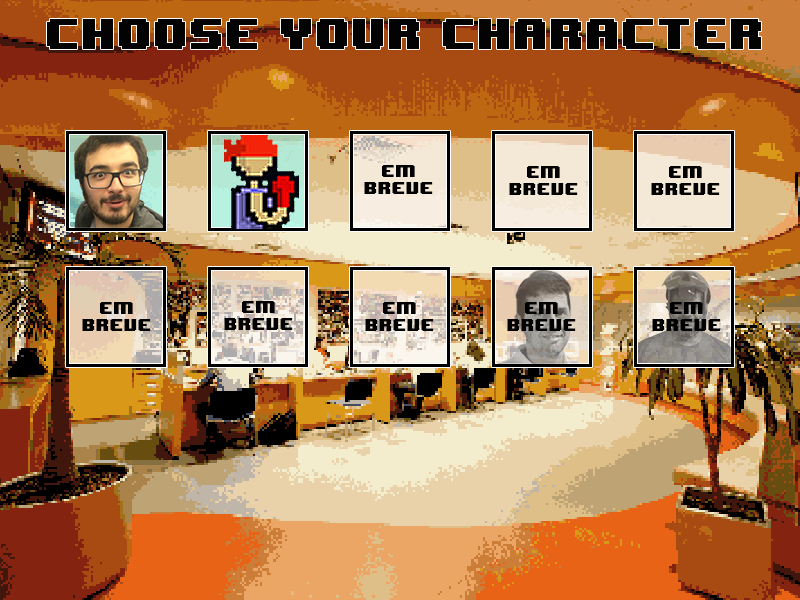
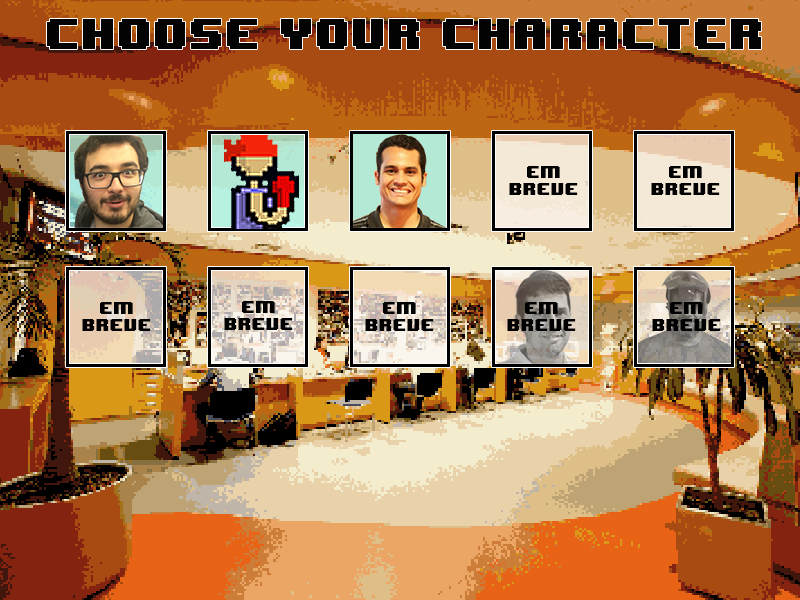
LOURENCO KRALHOOOooooOOOKj'
huehuebr

Changed region(s): [[0.4375, 0.21, 0.5625, 0.39]]

diff --git a/PFinal/teste7.py b/PFinal/teste7.py
@@ -68,6 +68,17 @@ p2_jumpRight = pygame.image.load(os.path.join(pasta_imagens,'Pular_Right.png'))
 p2_jumpLeft = pygame.image.load(os.path.join(pasta_imagens,'Pular_Left.png'))
 
 
+p3_walkRight1 = pygame.image.load(os.path.join(pasta_imagens,'lourenco_right1.png'))
+p3_walkRight2 = pygame.image.load(os.path.join(pasta_imagens,'lourenco_right2.png'))
+p3_walkRight3= pygame.image.load(os.path.join(pasta_imagens,'lourenco_right3.png'))
+p3_walkLeft1= pygame.image.load(os.path.join(pasta_imagens,'lourenco_left1.png'))
+p3_walkLeft2= pygame.image.load(os.path.join(pasta_imagens,'lourenco_left2.png'))
+p3_walkLeft3= pygame.image.load(os.path.join(pasta_imagens,'lourenco_left3.png'))
+p3_punchLeft= pygame.image.load(os.path.join(pasta_imagens,'lourenco_punch_left.png'))
+p3_punchRight= pygame.image.load(os.path.join(pasta_imagens,'lourenco_punch_right.png'))
+p3_jumpRight = pygame.image.load(os.path.join(pasta_imagens,'lourenco_jump_right.png'))
+p3_jumpLeft = pygame.image.load(os.path.join(pasta_imagens,'lourenco_jump_left.png'))
+
 #Imagens Menu
 background_menu = pygame.image.load(os.path.join(pasta_menu,'background_menu.png'))
 background_character = pygame.image.load(os.path.join(pasta_menu,'choose_character.png'))
@@ -157,6 +168,11 @@ def Character():
 				if click[0] == 1:
 					personagem[0] = "PixelGuy"
 					button_pressed_p1 = True
+			if 446 > mouse_pos[0] > 347 and 233 > mouse_pos[1] > 133:
+				setDisplay.blit(p1_select,(349,130))
+				if click[0] == 1:
+					personagem[0] = "Lourenco"
+					button_pressed_p1 = True
 			#Adicionar novos personagens aqui.
 			#
 			#
@@ -188,6 +204,11 @@ def Character():
 				if click[0] == 1:
 					personagem[1] = "PixelGuy"
 					button_pressed_p2 = True
+			if 446 > mouse_pos[0] > 347 and 233 > mouse_pos[1] > 133:
+				setDisplay.blit(p2_select,(349,130))
+				if click[0] == 1:
+					personagem[1] = "Lourenco"
+					button_pressed_p2 = True
 			#Adicionar novos personagens aqui.
 			#
 			#
@@ -214,10 +235,14 @@ def runGame():
 		P1 = Personagem(p1_eixox,p1_eixoy,p1_walkRight1,p1_walkRight2,p1_walkRight3,p1_walkLeft1,p1_walkLeft2,p1_walkLeft3,p1_punchRight,p1_punchLeft,p1_jumpRight,p1_jumpLeft,42)
 	if personagem[0] == "PixelGuy":
 		P1 = Personagem(p1_eixox,p1_eixoy,p2_walkRight1,p2_walkRight2,p2_walkRight3,p2_walkLeft1,p2_walkLeft2,p2_walkLeft3,p2_punchRight,p2_punchLeft,p2_jumpRight,p2_jumpLeft,20)
+	if personagem[0] == "Lourenco":
+		P1 = Personagem(p1_eixox,p1_eixoy,p3_walkRight1,p3_walkRight2,p3_walkRight3,p3_walkLeft1,p3_walkLeft2,p3_walkLeft3,p3_punchRight,p3_punchLeft,p3_jumpRight,p3_jumpLeft,42)
 	if personagem[1] == "Pedro":
 		P2 = Personagem(p2_eixox,p2_eixoy,p1_walkRight1,p1_walkRight2,p1_walkRight3,p1_walkLeft1,p1_walkLeft2,p1_walkLeft3,p1_punchRight,p1_punchLeft,p1_jumpRight,p1_jumpLeft,42)
 	if personagem[1] == "PixelGuy":
 		P2 = Personagem(p2_eixox,p2_eixoy,p2_walkRight1,p2_walkRight2,p2_walkRight3,p2_walkLeft1,p2_walkLeft2,p2_walkLeft3,p2_punchRight,p2_punchLeft,p2_jumpRight,p2_jumpLeft,20)
+	if personagem[1] == "Lourenco":
+		P2 = Personagem(p1_eixox,p1_eixoy,p3_walkRight1,p3_walkRight2,p3_walkRight3,p3_walkLeft1,p3_walkLeft2,p3_walkLeft3,p3_punchRight,p3_punchLeft,p3_jumpRight,p3_jumpLeft,42)
 
 
 
@@ -235,6 +260,12 @@ def runGame():
 	if personagem[1] == "PixelGuy":
 		imgy2 = 330
 		imgy2_original = 330
+	if personagem[0] == "Lourenco":
+		imgy = 308
+		imgy_original = 308
+	if personagem[1] == "Lourenco":
+		imgy2 = 308
+		imgy2_original = 308
 	alive = True
 	pressed_up = False
 	g = 0.5
